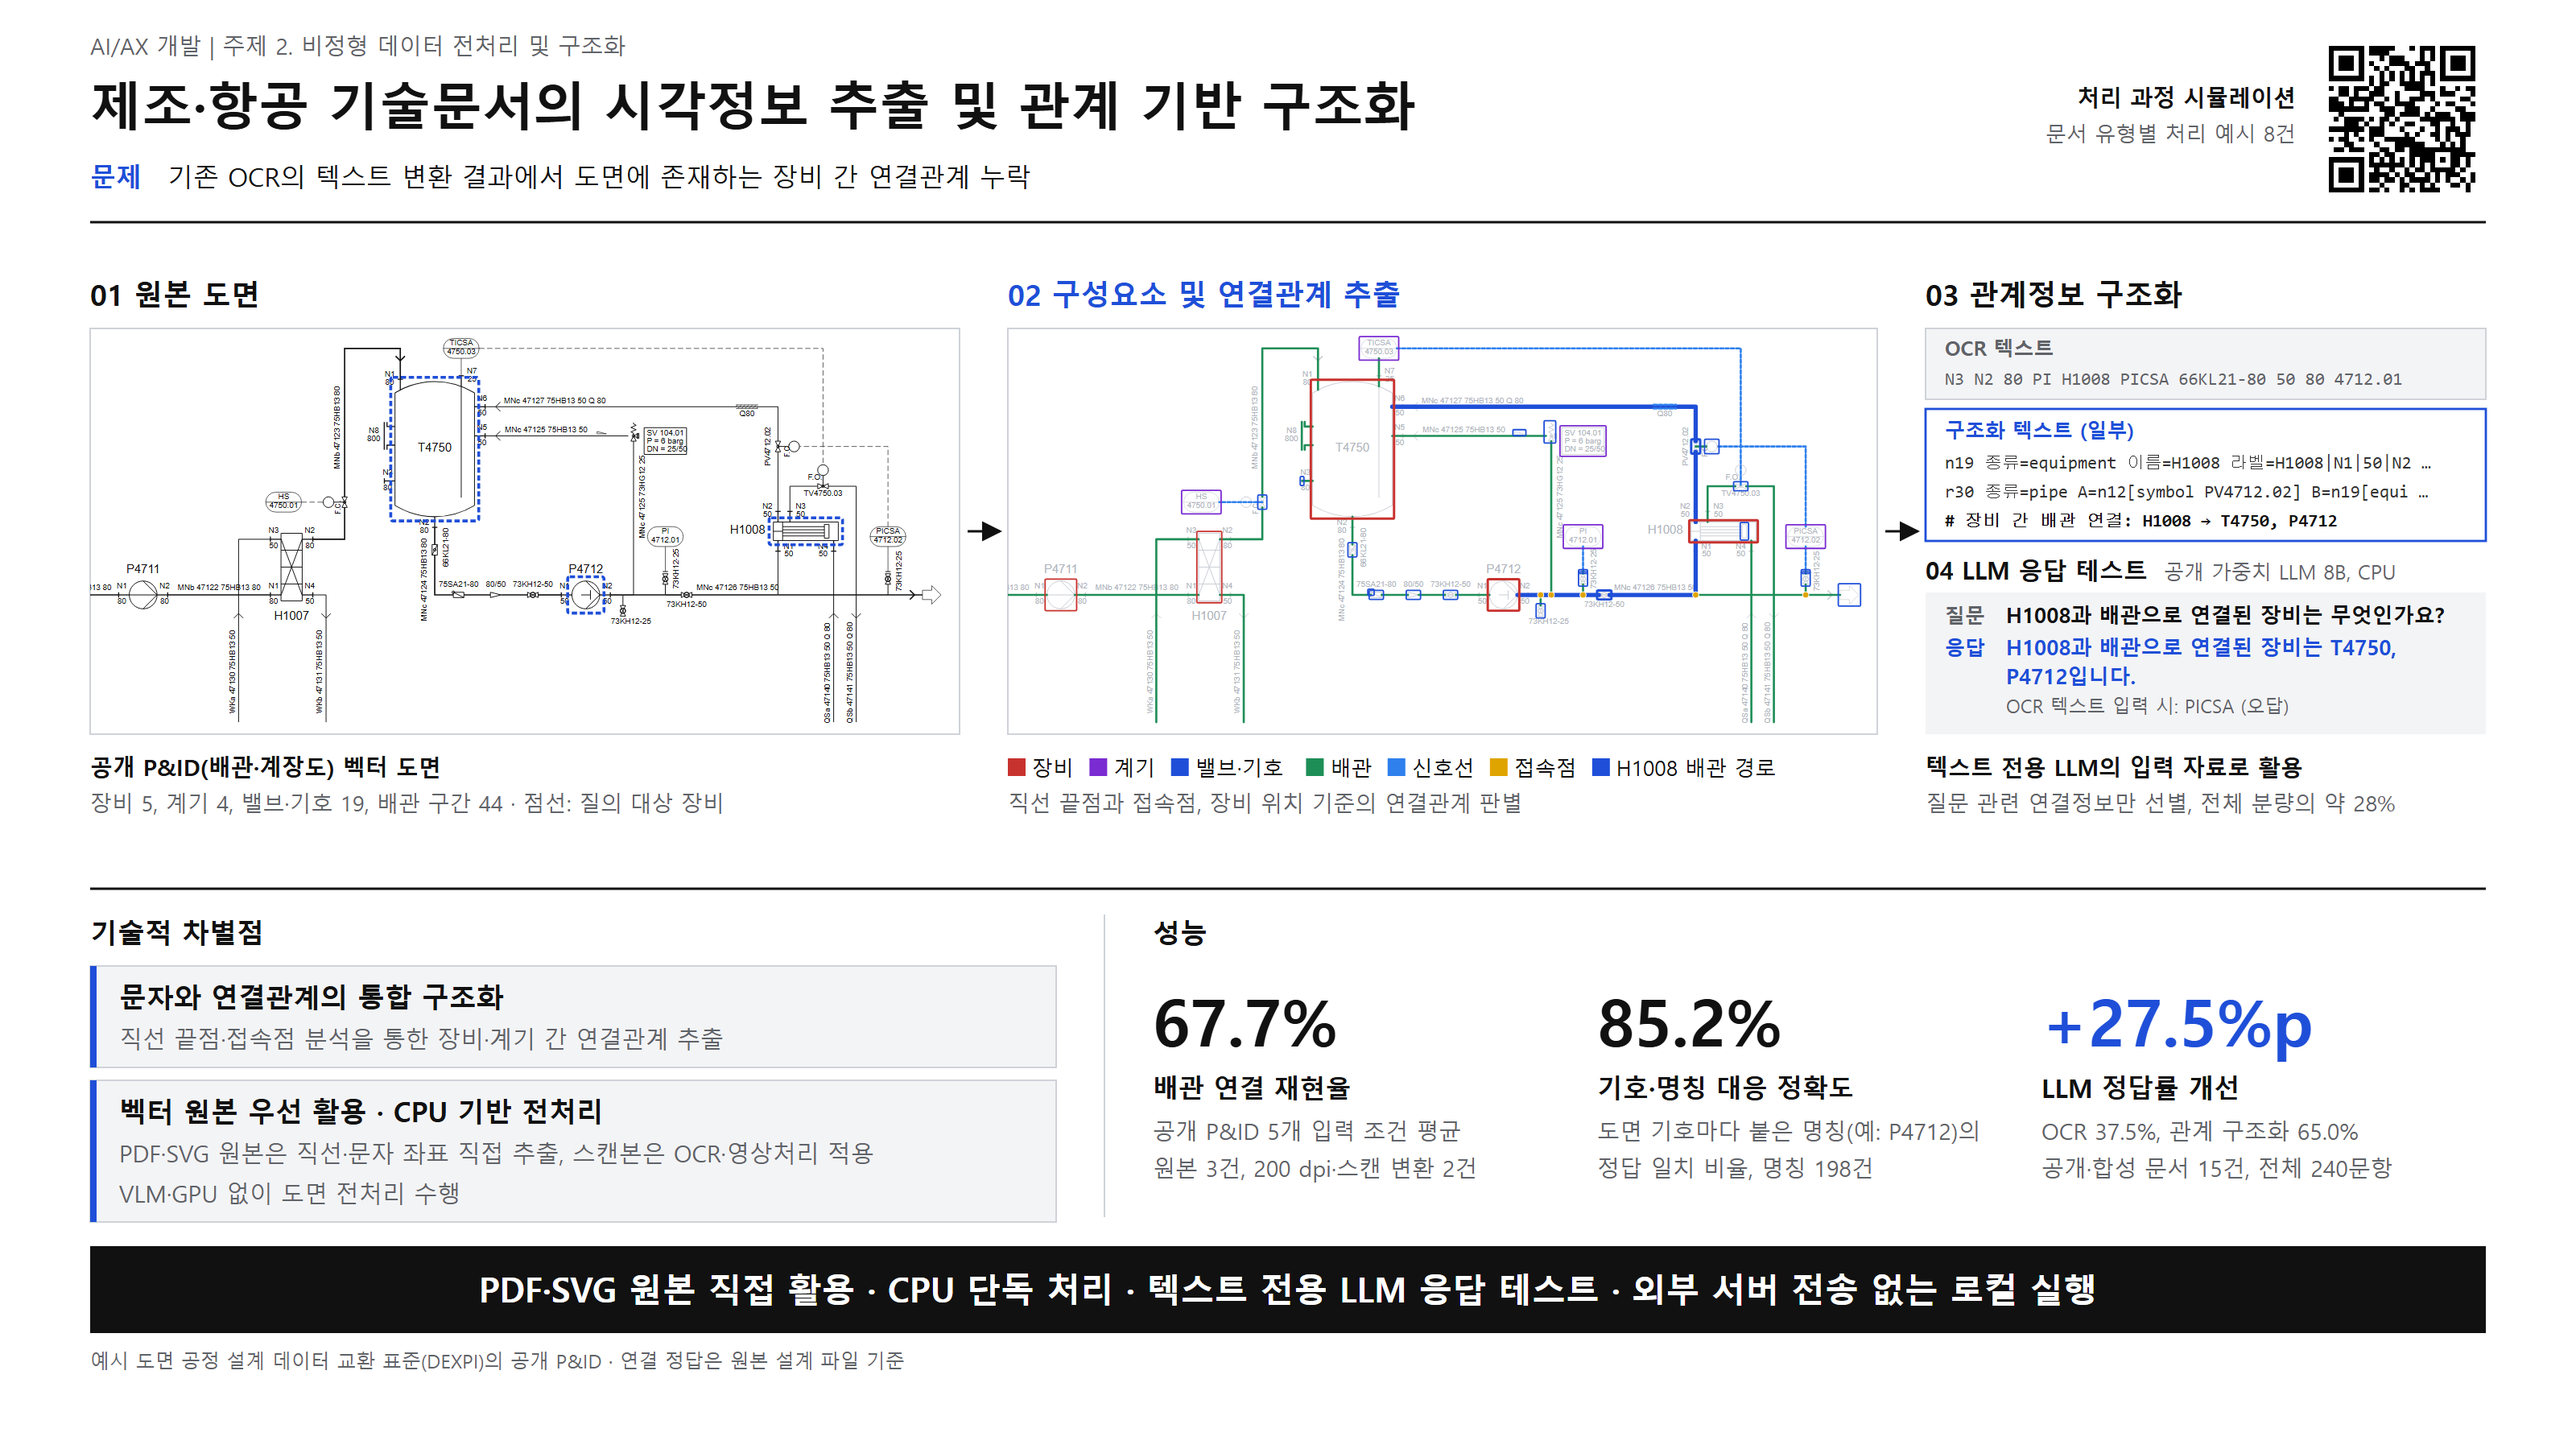
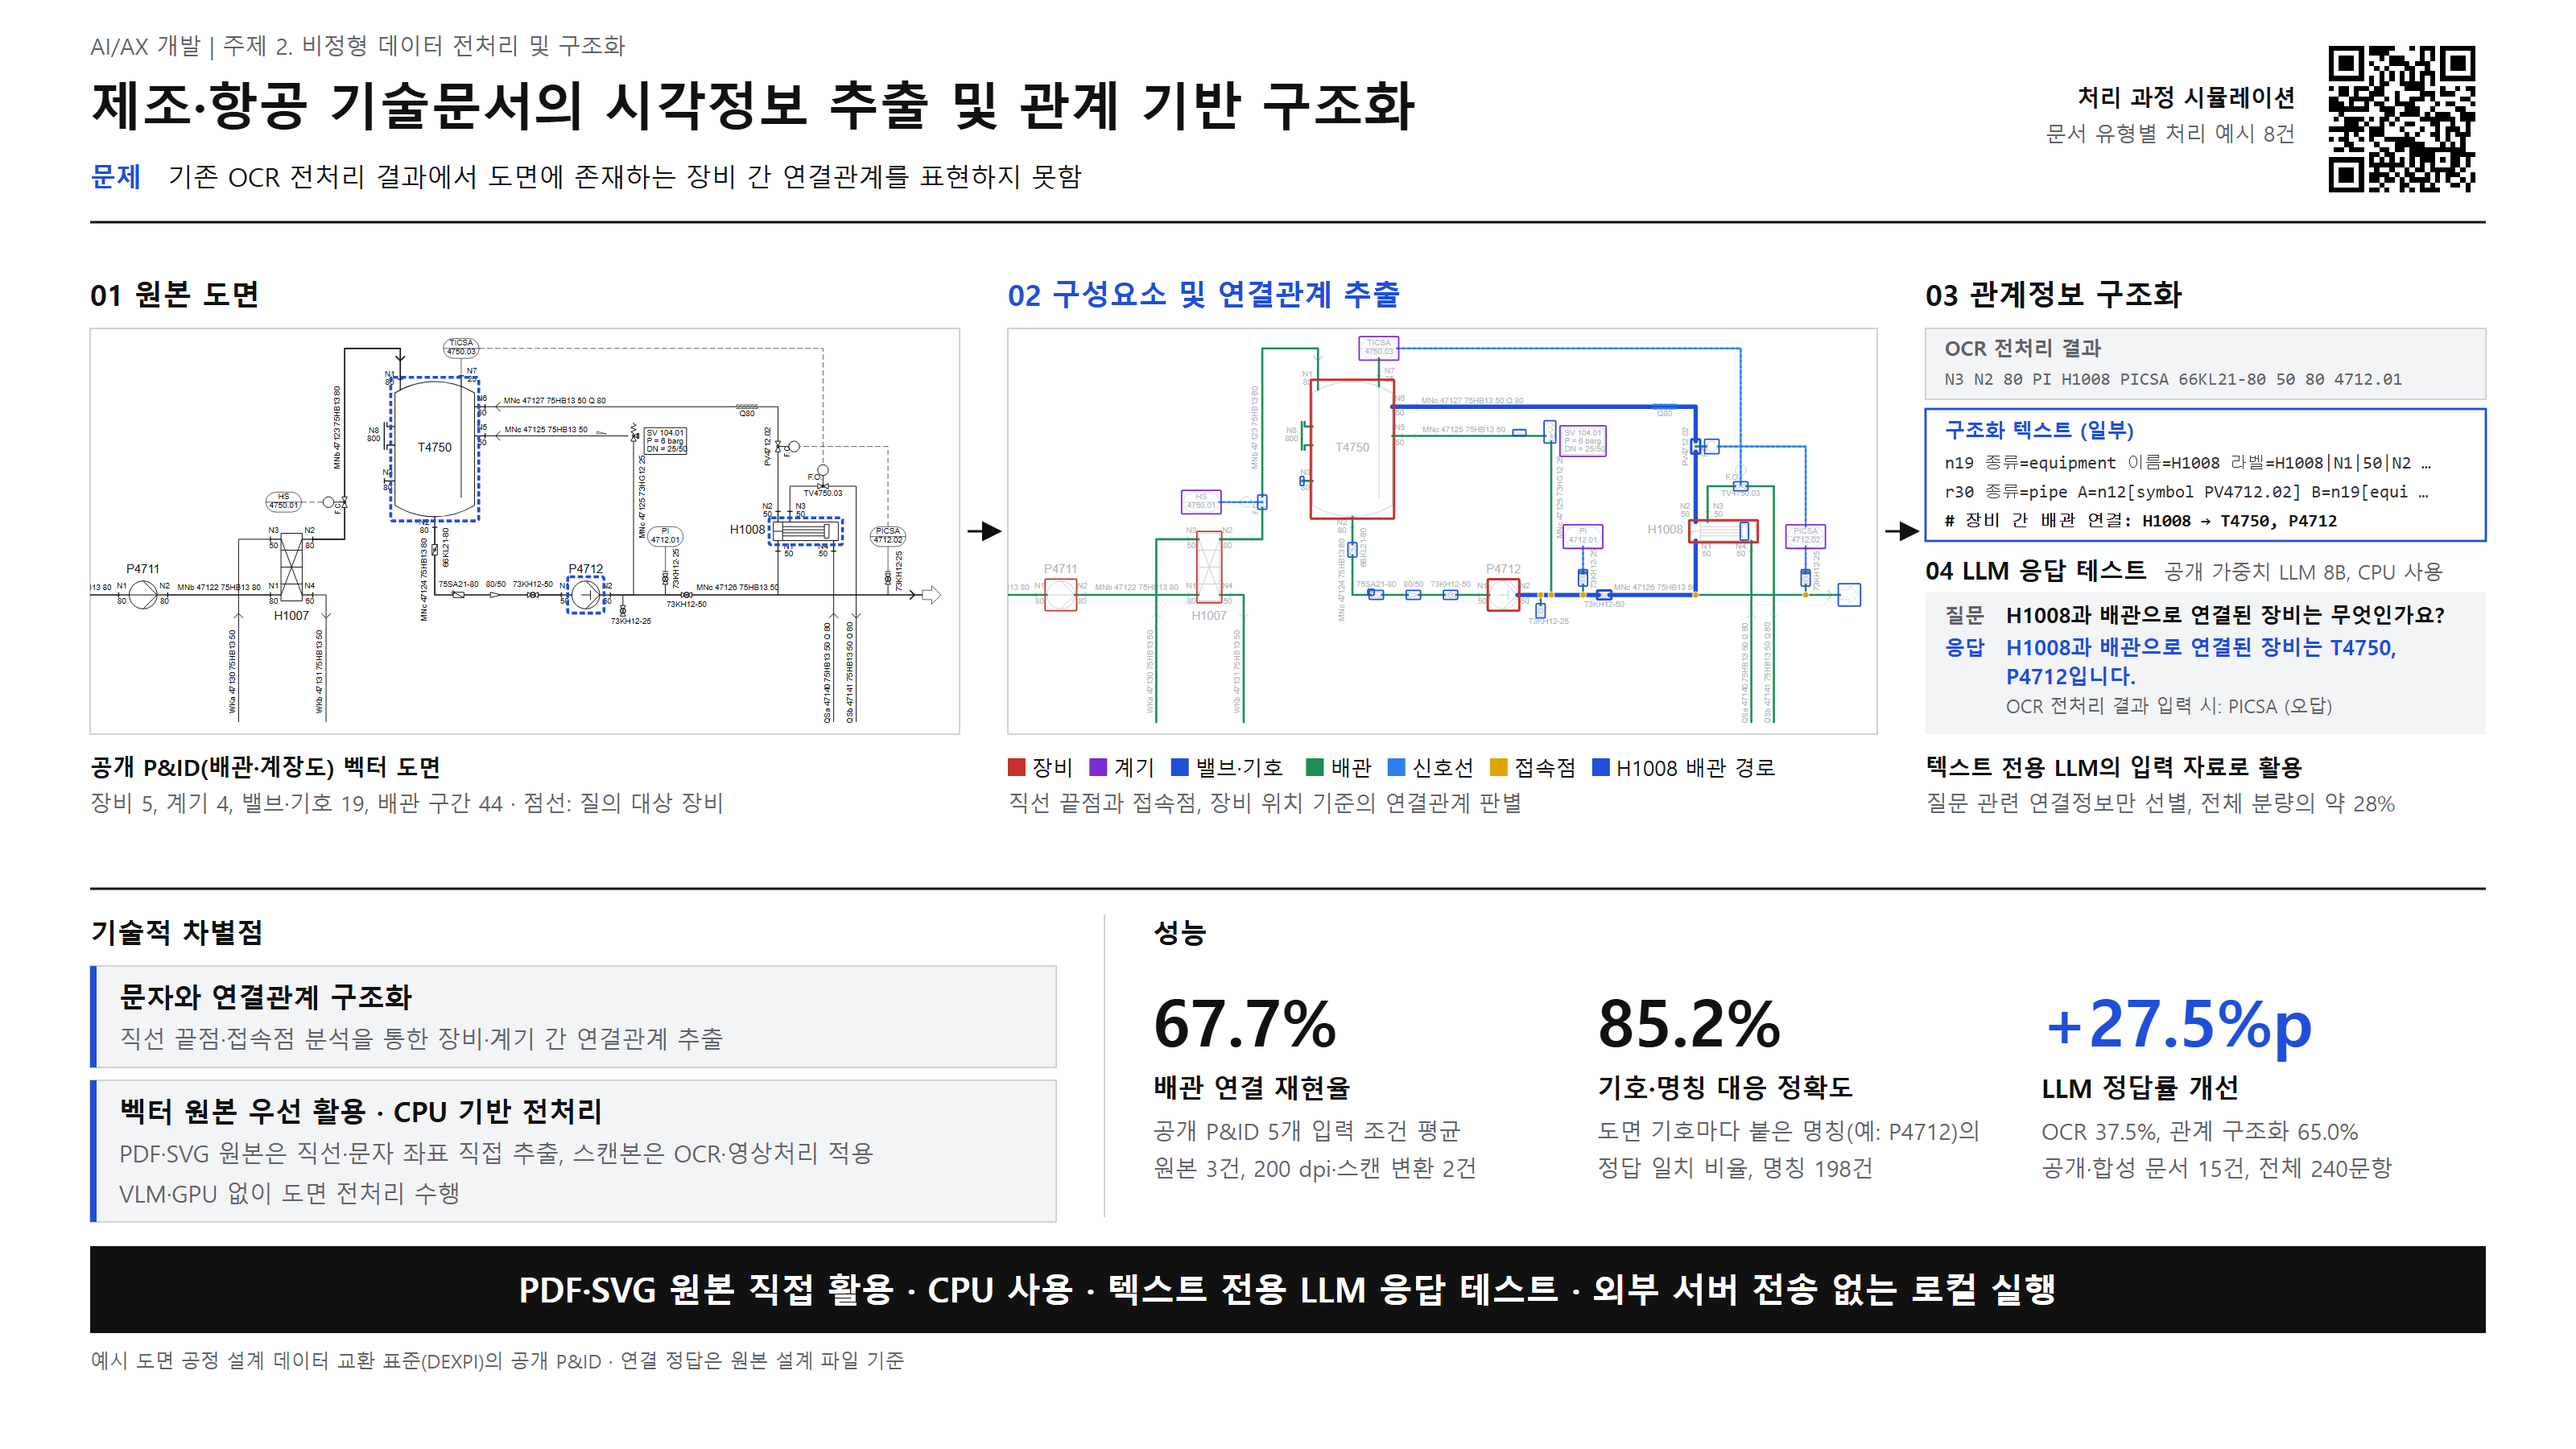
1장 슬라이드: 문제 문장 종결, OCR 전처리 결과·CPU 사용·문자와 연결관계 구조화 표현 수정

diff --git a/docs/figures/1장-도면-관계-구조화.html b/docs/figures/1장-도면-관계-구조화.html
@@ -4,7 +4,7 @@
 <text x="56" y="34" font-size="14" font-weight="400" fill="#5F6368" text-anchor="start">AI/AX 개발  |  주제 2. 비정형 데이터 전처리 및 구조화</text>
 <text x="56" y="78" font-size="32" font-weight="700" fill="#111111" text-anchor="start">제조·항공 기술문서의 시각정보 추출 및 관계 기반 구조화</text>
 <text x="56" y="116" font-size="16" font-weight="700" fill="#1F4FD8" text-anchor="start">문제</text>
-<text x="104" y="116" font-size="16" font-weight="400" fill="#111111" text-anchor="start">기존 OCR의 텍스트 변환 결과에서 도면에 존재하는 장비 간 연결관계 누락</text>
+<text x="104" y="116" font-size="16" font-weight="400" fill="#111111" text-anchor="start">기존 OCR 전처리 결과에서 도면에 존재하는 장비 간 연결관계를 표현하지 못함</text>
 <svg x="1440" y="22" width="104" height="104" viewBox="-2 -2 33 33"><rect x="-2" y="-2" width="33" height="33" fill="#FFFFFF"/><path d="M0 0.5h7m1 0h5m3 0h1m1 0h3m1 0h7m-29 1h1m5 0h1m1 0h4m6 0h1m1 0h1m1 0h1m5 0h1m-29 1h1m1 0h3m1 0h1m3 0h1m1 0h3m3 0h1m1 0h1m1 0h1m1 0h3m1 0h1m-29 1h1m1 0h3m1 0h1m1 0h1m3 0h4m1 0h3m2 0h1m1 0h3m1 0h1m-29 1h1m1 0h3m1 0h1m2 0h1m1 0h1m3 0h2m2 0h1m2 0h1m1 0h3m1 0h1m-29 1h1m5 0h1m3 0h1m1 0h1m1 0h1m1 0h1m1 0h3m1 0h1m5 0h1m-29 1h7m1 0h1m1 0h1m1 0h1m1 0h1m1 0h1m1 0h1m1 0h1m1 0h7m-21 1h1m1 0h2m2 0h5m1 0h1m-21 1h1m1 0h2m1 0h3m1 0h2m4 0h4m3 0h1m2 0h1m1 0h2m-27 1h2m1 0h1m2 0h3m2 0h1m4 0h3m1 0h3m3 0h1m-29 1h2m2 0h5m2 0h1m1 0h1m2 0h3m1 0h1m5 0h2m-28 1h3m1 0h1m2 0h1m1 0h2m2 0h4m4 0h1m1 0h2m3 0h1m-29 1h8m2 0h3m2 0h3m2 0h1m4 0h2m-25 1h1m8 0h2m1 0h4m1 0h1m1 0h3m2 0h3m-28 1h1m1 0h4m1 0h1m1 0h2m1 0h1m4 0h7m1 0h3m-26 1h3m1 0h1m2 0h1m1 0h1m2 0h2m3 0h2m2 0h1m2 0h1m-28 1h7m1 0h3m3 0h1m3 0h1m2 0h1m1 0h3m1 0h1m-25 1h1m1 0h1m2 0h3m4 0h1m1 0h1m2 0h2m1 0h1m1 0h3m-28 1h1m1 0h2m2 0h1m1 0h1m2 0h6m4 0h1m1 0h1m2 0h1m-24 1h2m4 0h1m3 0h6m3 0h1m1 0h1m1 0h1m-26 1h2m1 0h3m3 0h2m1 0h2m1 0h11m-19 1h2m1 0h2m3 0h5m3 0h5m-29 1h7m1 0h1m1 0h1m1 0h1m1 0h1m1 0h1m1 0h3m1 0h1m1 0h2m1 0h1m-28 1h1m5 0h1m1 0h7m1 0h1m1 0h1m1 0h1m3 0h2m1 0h1m-28 1h1m1 0h3m1 0h1m2 0h1m2 0h1m2 0h1m1 0h2m1 0h5m1 0h1m-27 1h1m1 0h3m1 0h1m1 0h4m1 0h1m1 0h2m2 0h1m1 0h1m1 0h3m2 0h1m-29 1h1m1 0h3m1 0h1m1 0h2m1 0h2m1 0h1m1 0h4m1 0h1m1 0h1m2 0h1m1 0h1m-29 1h1m5 0h1m3 0h1m3 0h2m2 0h1m1 0h1m3 0h2m1 0h1m-28 1h7m1 0h2m1 0h1m2 0h1m1 0h1m1 0h4m5 0h1" stroke="#000000" stroke-width="1" fill="none" shape-rendering="crispEdges"/></svg>
 <text x="1426" y="66" font-size="14" font-weight="700" fill="#111111" text-anchor="end">처리 과정 시뮬레이션</text>
 <text x="1426" y="88" font-size="13" font-weight="400" fill="#5F6368" text-anchor="end">문서 유형별 처리 예시 8건</text>
@@ -1247,7 +1247,7 @@
 <text x="1003.9299999999998" y="482" font-size="13" font-weight="400" fill="#111111" text-anchor="start">H1008 배관 경로</text>
 <text x="626" y="504" font-size="13.5" font-weight="400" fill="#5F6368" text-anchor="start">직선 끝점과 접속점, 장비 위치 기준의 연결관계 판별</text>
 <rect x="1196" y="204" width="348" height="44" rx="0" stroke="#CFD3D9" fill="#F3F4F6" stroke-width="1"/>
-<text x="1208" y="221" font-size="12.5" font-weight="700" fill="#5F6368" text-anchor="start">OCR 텍스트</text>
+<text x="1208" y="221" font-size="12.5" font-weight="700" fill="#5F6368" text-anchor="start">OCR 전처리 결과</text>
 <text x="1208" y="239" font-size="11" font-weight="400" fill="#5F6368" text-anchor="start" font-family="Consolas, 'Noto Sans KR', monospace">N3 N2 80 PI H1008 PICSA 66KL21-80 50 80 4712.01</text>
 <rect x="1196" y="254" width="348" height="82" rx="0" stroke="#1F4FD8" fill="#FFFFFF" stroke-width="1.4"/>
 <text x="1208" y="272" font-size="12.5" font-weight="700" fill="#1F4FD8" text-anchor="start">구조화 텍스트 (일부)</text>
@@ -1255,14 +1255,14 @@
 <text x="1208" y="309" font-size="11" font-weight="400" fill="#333333" text-anchor="start" font-family="Consolas, 'Noto Sans KR', monospace">r30 종류=pipe A=n12[symbol PV4712.02] B=n19[equi …</text>
 <text x="1208" y="327" font-size="11" font-weight="700" fill="#111111" text-anchor="start" font-family="Consolas, 'Noto Sans KR', monospace"># 장비 간 배관 연결: H1008 → T4750, P4712</text>
 <text x="1196" y="360" font-size="15" font-weight="700" fill="#111111" text-anchor="start">04  LLM 응답 테스트</text>
-<text x="1344.03" y="360" font-size="12.5" font-weight="400" fill="#5F6368" text-anchor="start">공개 가중치 LLM 8B, CPU</text>
+<text x="1344.03" y="360" font-size="12.5" font-weight="400" fill="#5F6368" text-anchor="start">공개 가중치 LLM 8B, CPU 사용</text>
 <rect x="1196" y="368" width="348" height="88" rx="0" stroke="none" fill="#F3F4F6" stroke-width="1"/>
 <text x="1208" y="387" font-size="12.5" font-weight="700" fill="#5F6368" text-anchor="start">질문</text>
 <text x="1246" y="387" font-size="13" font-weight="700" fill="#111111" text-anchor="start">H1008과 배관으로 연결된 장비는 무엇인가요?</text>
 <text x="1208" y="407" font-size="12.5" font-weight="700" fill="#1F4FD8" text-anchor="start">응답</text>
 <text x="1246" y="407" font-size="13" font-weight="700" fill="#1F4FD8" text-anchor="start">H1008과 배관으로 연결된 장비는 T4750,</text>
 <text x="1246" y="425" font-size="13" font-weight="700" fill="#1F4FD8" text-anchor="start">P4712입니다.</text>
-<text x="1246" y="443" font-size="11.5" font-weight="400" fill="#5F6368" text-anchor="start">OCR 텍스트 입력 시: PICSA (오답)</text>
+<text x="1246" y="443" font-size="11.5" font-weight="400" fill="#5F6368" text-anchor="start">OCR 전처리 결과 입력 시: PICSA (오답)</text>
 <text x="1196" y="482" font-size="14" font-weight="700" fill="#111111" text-anchor="start">텍스트 전용 LLM의 입력 자료로 활용</text>
 <text x="1196" y="504" font-size="13.5" font-weight="400" fill="#5F6368" text-anchor="start">질문 관련 연결정보만 선별, 전체 분량의 약 28%</text>
 <line x1="56" y1="552" x2="1544" y2="552" stroke="#111111" stroke-width="1.4"/>
@@ -1270,7 +1270,7 @@
 <text x="56" y="586" font-size="17" font-weight="700" fill="#111111" text-anchor="start">기술적 차별점</text>
 <rect x="56" y="600" width="600" height="63" rx="0" stroke="#CFD3D9" fill="#F3F4F6" stroke-width="1"/>
 <rect x="56" y="600" width="4" height="63" fill="#1F4FD8"/>
-<text x="74" y="626" font-size="17" font-weight="700" fill="#111111" text-anchor="start">문자와 연결관계의 통합 구조화</text>
+<text x="74" y="626" font-size="17" font-weight="700" fill="#111111" text-anchor="start">문자와 연결관계 구조화</text>
 <text x="74" y="651" font-size="14.5" font-weight="400" fill="#5F6368" text-anchor="start">직선 끝점·접속점 분석을 통한 장비·계기 간 연결관계 추출</text>
 <rect x="56" y="671" width="600" height="88" rx="0" stroke="#CFD3D9" fill="#F3F4F6" stroke-width="1"/>
 <rect x="56" y="671" width="4" height="88" fill="#1F4FD8"/>
@@ -1291,6 +1291,6 @@
 <text x="1268.0" y="708" font-size="14" font-weight="400" fill="#5F6368" text-anchor="start">OCR 37.5%, 관계 구조화 65.0%</text>
 <text x="1268.0" y="731" font-size="14" font-weight="400" fill="#5F6368" text-anchor="start">공개·합성 문서 15건, 전체 240문항</text>
 <rect x="56" y="774" width="1488" height="54" rx="0" stroke="none" fill="#111111" stroke-width="1"/>
-<text x="800.0" y="809" font-size="21" font-weight="700" fill="#FFFFFF" text-anchor="middle">PDF·SVG 원본 직접 활용   ·   CPU 단독 처리   ·   텍스트 전용 LLM 응답 테스트   ·   외부 서버 전송 없는 로컬 실행</text>
+<text x="800.0" y="809" font-size="21" font-weight="700" fill="#FFFFFF" text-anchor="middle">PDF·SVG 원본 직접 활용   ·   CPU 사용   ·   텍스트 전용 LLM 응답 테스트   ·   외부 서버 전송 없는 로컬 실행</text>
 <text x="56" y="850" font-size="12" font-weight="400" fill="#5F6368" text-anchor="start">예시 도면  공정 설계 데이터 교환 표준(DEXPI)의 공개 P&amp;ID  ·  연결 정답은 원본 설계 파일 기준</text>
 </svg></body></html>
